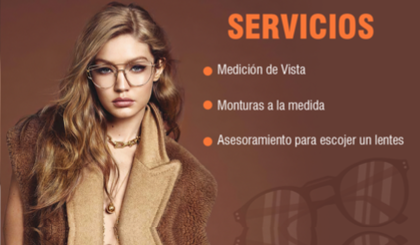
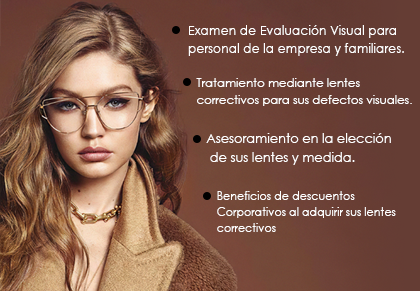
Add files via upload

diff --git a/index.html b/index.html
@@ -74,102 +74,63 @@
        
     </a>
   </div>
-  <section class="degradado-opt">
+  <section class="optica">
   <div class="padding1 tac flex-a flex-colum gap2 colblanco">
-    <h2 class="border-bot colnar">Nosotros</h2>
-    <p class="pparrafo">Brindamos un Producto de Calidad y Confianza y cumpliendo las Normativas de Seguridad dadas por el Gobierno.</p>
-   <img class="img-servvv" src="./img/servicios.png" alt="">
+    <h2 class="colnegro">EVENTOS VISUALES <br>
+        Corporativo Empresarial</h2>
+    <p class="pparrafo">La implementacion de nuestro PROGRAMA DE
+        CONSERVACIONVISUAL(ConvenioCorporativo)enlas
+        empresas,tiene como objetivo planeary ejecutar
+        actividadesdediagnostico,correccion,prevenciony
+        tratamiento de losproblemasvisuales,tendientesa
+        mejorarlascondiccionesdetrabajoylasaludvisualde
+        lapoblaciontrabajadora.Lomismoqueaminimizarlos
+        nivelesde riesgo (poruna vision defectuosa)y a
+        mantenero mejorarlosindicesde productividad y
+        rendimientodelasemprpresas.</p>
+    <img class="img-servvv" src="./img/services.png" alt="">
+   
  
 </div>
-<!--d
-  <div class="paddingprinc tac flex-a flex-colum gap1 colblanco">
-    <h2 class="border-bot">Servicios</h2>
-      Swiper Slider 
-<div class="swiper-container">
- Additional required wrapper 
-<div class="swiper-wrapper">
-   
-    <a class="swiper-slide" href="#" >
-        <img loading="lazy" src="./img/servicios.png" alt="">
-</a>
-<a class="swiper-slide" href="#" >
-    <img loading="lazy" src="./img/servicio-1.png" alt="">
-</a>
+  <div class="padding1 tac flex-a flex-colum gap2 colblanco">
+    <h2 class="colnegro" >Servicios</h2>
+   <img class="img-servvvv" src="./img/servicios.png" alt="">
    
 </div>
- If we need pagination 
-<div class="swiper-hero-progress"></div>
-</div>
-
-</div>
- d -->
 <div class="padding1 tac flex-a flex-colum gap2 colblanco">
-    <h2 class="border-bot colnar">Brigada de Salud Visual</h2>
-    <p class="pparrafo">Son jornadas de Salud Visual que se realizan en las  sedes de la empresas SIN NINGUN COSTO, para  apoyar las actividades de Salud y Bienestar, programadas por el area de Seguridad y Salud en el trabajo.</p>
+    <img class="img-servvv" src="./img/informe.png" alt="">
+    <h2 class="colnegro">Informe Clinico Especializado
+        Individualizado y Global</h2>
+        <div class="flex gap1 flex-centro">
+   <img src="./img/informeimg.png" alt="">
+        <p class="pparrafo w63 textleft">Se entrega a la empresa un informe
+        clinico especializado, reportando los
+        hallazgos y conductasa a seguir para
+        cada uno de los trabajadores.</p>
+    </div>
+</div>
+<div class="padding1 tac flex-a flex-colum gap2 colblanco">
+    
+    <h2 class="colnegro">Entrega de Productos en <br> la Sede de la Empresa</h2>
+    <p class="pparrafo ">Se entrega a la empresa un informe
+        clinico especializado, reportando los
+        hallazgos y conductasa a seguir para
+        cada uno de los trabajadores.</p>
+        <img class="img-servvv" src="./img/campana.png" alt="">
+</div>
+<div class="padding1 tac flex-a flex-colum gap1 colblanco">
+    
+    <h2 class="colnegro">Campañas Publicitarias</h2>
    
-      <!-- Swiper Slider -->
-<div class="swiper-container">
-<!-- Additional required wrapper -->
-<div class="swiper-wrapper">
-    <!-- Slides -->
-    <a class="swiper-slide" href="#" >
-        <img loading="lazy" src="./img/brigada.png" alt="">
-</a>
-<a class="swiper-slide" href="#" >
-    <img loading="lazy" src="./img/brigada.png" alt="">
-</a>
-   
+       <a href="" class="colblanco"> <img class="img-ico" src="./img/youtube-icono.png" alt="">
+        <p class="pparrafo ">Visita nuestro canal de Youtube</p></a>
 </div>
-<!-- If we need pagination -->
-<div class="swiper-hero-progress"></div>
-</div>
-<!-- Swiper Slider -->
-<a href="https://cdn.fbsbx.com/v/t59.2708-21/294688065_2071050356428399_2027837390542994010_n.pdf/EVENTOS-VISUALES-CORPORATIVOS-1.pdf?_nc_cat=110&ccb=1-7&_nc_sid=0cab14&_nc_ohc=v77OyO06GoUAX9moPH5&tn=9JL5hej-wMnvqQG7&_nc_ht=cdn.fbsbx.com&oh=03_AVJdQy0fOQ9DOTkZuRUhiexCw9B4k654im7d_MJAyQVKNg&oe=6343F389&dl=1" class="opciones bred a50 flex-centro">Mayor Informacion</a>
-</div>
+<div>
+    <img class="img-servv" src="./img/footer.png"  alt="">
+    </div>
 </section>
 <!--LKIDS-->
-<section class="degradado-opt2">
-    <div class="padding1 tac flex-a flex-colum gap2 colblanco"> 
-        <img class="img-serr" src="./img/miradakids-logo.png" alt="">
-        <!--ICONOS-->
-            <div class="row2 colblanco grid">
-                <a href="https://www.facebook.com/MiradaKids-102022295394517/" target="_blank" class="opc colblanco flex-centro flex-colum gap10"> 
-                    <div class="icono-img">
-                    <img class="icono-opc" src="./img/icono-facebook.png" alt=""></div>
-                     <p>Facebook</p> 
-                    </a>
-                <a href="https://www.instagram.com/miradakidsopticas/" target="_blank" class="opc colblanco flex-centro flex-colum gap10"> 
-                  <div class="icono-img">
-                   <img class="icono-opc" src="./img/icono-instagram.png" alt=""></div>
-                    <p>Instagram</p> 
-                    </a>
-            </div>
-        <!--ICONOS-->
-        <h2 class="border-bot colnar">Lentes "NANO"</h2>
-        <p class="pparrafo">
-            ¡Indestructibles! Fabricados con Siliflex, un material patentado que los convierte en armazones adaptables, resistentes y cómodos. Tus niños podrán divertirse sin parar con Nano, puede estirarlos, encogerlos, pisarlos, retorcerlos, ¡y quedan intactos! Y SOBRE TODO VIENE CON LUNAS DE DESCANSO BLUE PROTEC
-        </p>
-              <!-- Swiper Slider -->
-<div class="swiper-container">
-    <!-- Additional required wrapper -->
-    <div class="swiper-wrapper">
-        <!-- Slides -->
-        <a class="swiper-slide" href="#" >
-            <img loading="lazy" src="./img/imagen_1.jpg" alt="">
-    </a>
-    <a class="swiper-slide" href="#" >
-        <img loading="lazy" src="./img/imagen_2.jpg" alt="">
-    </a>
-    <a class="swiper-slide" href="#" >
-        <img loading="lazy" src="./img/imagen_3.jpg" alt="">
-    </a>
-    </div>
-    <!-- If we need pagination -->
-    <div class="swiper-hero-progress"></div>
-    </div>
-    <!-- Swiper Slider -->
-    </div> 
-</section>
+
 <footer class="footer flex-centro">
     <p>Obtén tu tarjeta con : <a href="#"> www.tarjetadigital.com</a></p>
  </footer>

diff --git a/css/estilos-generales.css b/css/estilos-generales.css
@@ -16,8 +16,15 @@ body{
 .imgqr{
   width: 100%;
 }
+h2{
+  text-shadow: 2px 0 #b58583, -2px 0 #b58583, 0 2px #b58583, 0 -2px #b58583,
+  1px 1px #b58583, -1px -1px #b58583, 1px -1px #b58583, -1px 1px #b58583;
+}
 .colnar{
   color: #fd7837;
+}
+.textleft{
+  text-align: left;
 }
 h4{
   font-size: 1.3em;
@@ -42,7 +49,7 @@ background: linear-gradient(356deg,rgba(20,7,0,1) 0%,  rgba(134,48,0,1) 100%);
 .brdbtm{
   border-radius: 0 0 11em 0em;
   overflow: hidden;
-  border: 4px solid #fd7837;
+  border: 4px solid #ffffff;
   top: -59%;
   left: -46%;
   position: relative;
@@ -60,11 +67,17 @@ background: linear-gradient(356deg,rgba(20,7,0,1) 0%,  rgba(134,48,0,1) 100%);
 .colnegro{
   color: var(--negro);
 }
+.w63{
+  width: 63%;
+}
+.img-ico{
+  width: 70px;
+}
 .bblanco{
   background-color: var(--blanco);
 }
 .bred{
-  background-color: #fd7837;
+  background-color: #000000;
   color: var(--blanco);
   font-weight: bold;
 }
@@ -190,8 +203,8 @@ main, .posrelative{
   }
   .perfil img, .perfil2 img{
     width: 100%;
-    border-radius: 1em;
-    outline: none;
+    /* border-radius: 1em; */
+    /* outline: none; */
   }
   .perfil2{
     width: 120px;
@@ -204,12 +217,12 @@ main, .posrelative{
     bottom: 50px;
   }
   .perfil{
-    width: 120px;
-    height: 120px;
+    width: 160px;
+    /* height: 120px; */
     position: absolute;
     z-index: 2;
-    background-color: var(--blanco);
-    border-radius: 5em;
+    /* background-color: var(--blanco); */
+    border-radius: 5px;
     border: 2px solid var(--blanco);
     bottom: 5px;
   }
@@ -332,8 +345,8 @@ main, .posrelative{
 .icono-img{
   width: 70px;
   height: 70px;
-border: 4px solid #fd7837;
-border-radius: 5em;
+  border: 4px solid #ffffff;
+  border-radius: 5em;
 }
 .icono-opc{
   width: 100% !important;
@@ -581,6 +594,9 @@ width: 100%;
 .img-servvv{
   width: 100%;
   border-radius: 1em;
+}
+.img-servvvv{
+  width: 110%;
 }
 
 @media screen and (min-width: 720px) {

diff --git a/modelo-1.html b/modelo-1.html
@@ -123,7 +123,6 @@
 </div>
 </section>
 <section class="paddingprinc flex-colum gap1 posrelative box" >
-    <h2>Reservar una Cita</h2>
     <form  class="form flex-colum flex-c" method="post" name="google-sheet" id="google-sheet" autocomplete="off">
         <p class="form-titulo">Regístrate</p>
 
@@ -172,7 +171,7 @@
         </div>
         <p class="mensajeCorrecto"></p>
       </form>
-      <img loading="lazy" class="abs imgform" src="https://conceptopeluqueria.com/wp-content/uploads/2020/07/www_Tommy_red_6-800x893-1.png" alt="">
+<!--       <img loading="lazy" class="abs imgform" src="https://conceptopeluqueria.com/wp-content/uploads/2020/07/www_Tommy_red_6-800x893-1.png" alt="">-->
 </section>
 <footer class="footer flex-centro">
     <p>Obtén tu tarjeta con : <a href="#"> www.tarjetadigital.com</a></p>
